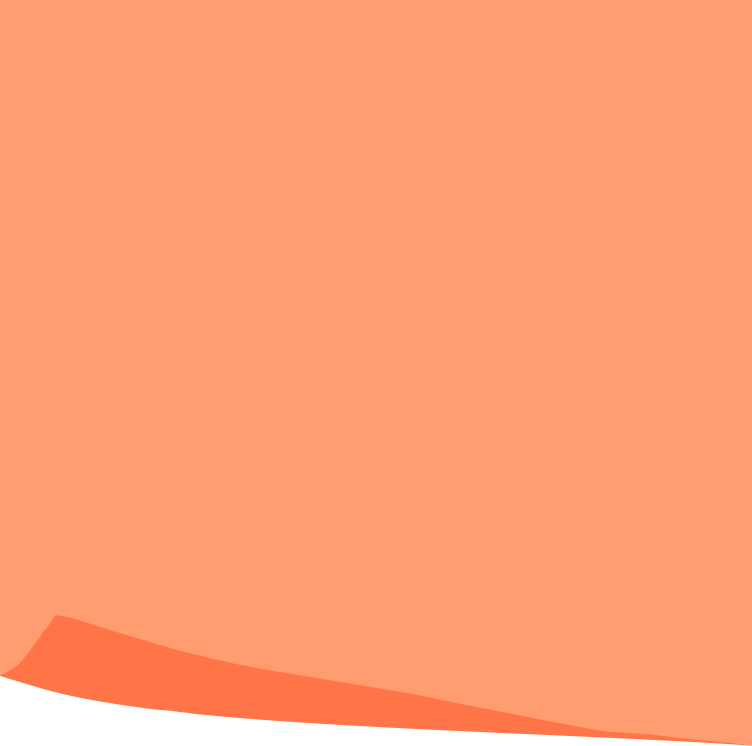
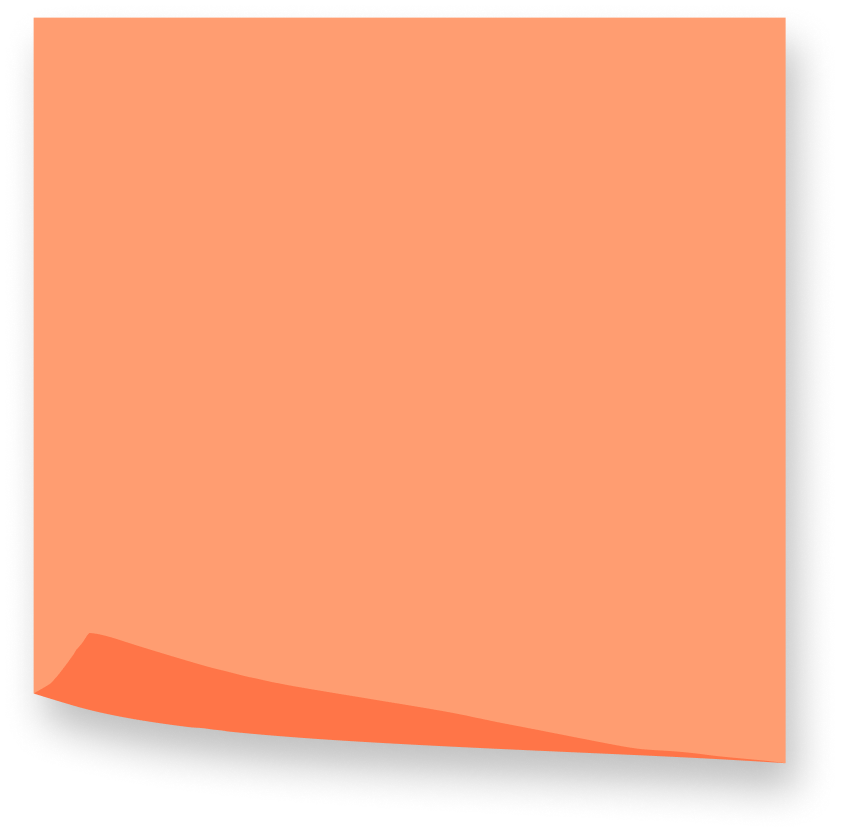
næsten done, mangler kun popovers og lidt margin/paddings

Changed region(s): [[0.0, 0.0, 1.0, 1.0]]

diff --git a/src/styles/global.css b/src/styles/global.css
@@ -78,7 +78,10 @@ body {
   color: var(--color-gray950);
 }
 article {
+  max-width: 1200px;
+  width: 100%;
   margin-bottom: 4rem;
+  margin-inline: auto;
   padding: 0 1rem;
 }
 h1 {
@@ -109,13 +112,51 @@ p.btn {
   font-size: 30px;
 }
 
+/*BTN*/
+.cta-btn {
+  display: block;
+  font-family: "Lexend Exa";
+  font-weight: 600;
+  font-size: 20px;
+  color: var(--color-white);
+  text-decoration: none;
+  height: min-content;
+  width: fit-content;
+  align-content: center;
+  padding: 12px 2rem;
+  background-color: var(--color-orange400);
+}
+.btn-left {
+  place-self: end;
+  border-top-left-radius: 15px;
+  border-bottom-left-radius: 15px;
+}
+.btn-right {
+  border-top-right-radius: 15px;
+  border-bottom-right-radius: 15px;
+}
+
 /************************* Hero slideshow *****************************/
 .slide-wrapper {
   position: relative;
+  margin: 0 0 2rem;
+  padding: 0;
   overflow: hidden;
+  max-width: 100%;
+}
+.display-wrapper {
+  display: flex;
+  flex-direction: column;
+  width: 100%;
+  height: 100%;
+  position: absolute;
+  justify-content: space-around;
+  text-align: center;
+  padding-inline: 2.5rem;
+  z-index: 2;
 }
 .sliding-background {
-  background: url(../assets/carrousel-test.png) repeat-x;
+  background: url(../../public/assets/carrousel.webp) repeat-x;
   background-size: contain;
   height: 600px;
   width: 5000px;
@@ -126,34 +167,34 @@ p.btn {
     transform: translate3d(0, 0, 0);
   }
   100% {
-    transform: translate3d(-2399px, 0, 0);
+    transform: translate3d(-3200px, 0, 0);
   }
 }
 h1.display {
   font-family: "DM Sans";
-  font-weight: 900;
-  font-size: 128px;
+  font-weight: 600;
+  font-size: clamp(6.25rem, 3.8rem + 11.2vw, 8rem);
   text-transform: uppercase;
-  text-align: center;
-  position: absolute;
   width: 100%;
-  z-index: 2;
   color: var(--color-white);
+  line-height: 1.65;
 }
 /*******************banner**************************/
 .banner {
+  background-color: var(--color-green700);
+  color: var(--color-white);
+  max-width: 100%;
+  margin: 0 0 4rem;
+}
+.banner1 {
   display: grid;
   grid-template-rows: min-content;
   gap: 1rem;
-  background-color: var(--color-green700);
-  color: var(--color-white);
-}
-.banner1 {
   height: 350px;
-  background-image: url(../assets/1udaf5.png);
-  background-repeat: no-repeat;
-  background-position: bottom left;
-  background-size: max(600px);
+  max-width: 1200px;
+  margin-inline: auto;
+  background: url(../assets/1udaf5.png) no-repeat left bottom;
+  background-size: max(600);
   justify-content: center;
   padding-top: 4rem;
 }
@@ -164,4 +205,34 @@ h1.display {
   background-position: right;
   background-size: contain;
   padding: 4rem 2rem;
+}
+/******************** Teamet *********************/
+.teamet {
+  display: grid;
+  gap: 1rem;
+  a {
+    font-family: "Open Sans";
+    color: var(--color-gray950);
+  }
+}
+/********************** Layout **************************/
+@media (min-width: 800px) {
+  .grid_1-1-1 {
+    display: grid;
+    grid-template-columns: 1fr 1fr 1fr;
+  }
+  .grid_2-2 {
+    display: grid;
+    grid-template-columns: 1fr 1fr;
+  }
+}
+@media (min-width: 1000px) {
+  .grid_2-2 {
+    grid-template-columns: 1fr 1fr 1fr;
+  }
+  .flex-span {
+    display: flex;
+    grid-column: span 3;
+    justify-content: space-around;
+  }
 }
